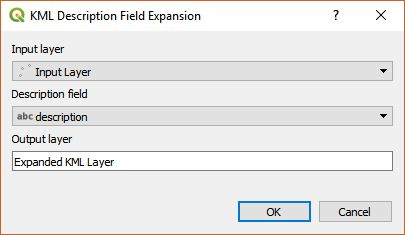
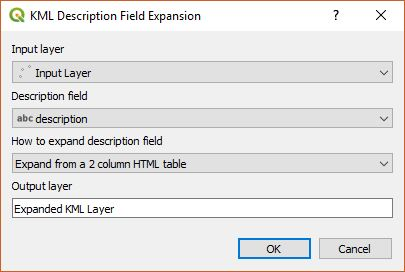
updated to expand tag=value attributes

Changed region(s): [[0.0296, 0.1489, 0.9778, 0.8043], [0.0, 0.834, 1.0, 1.0], [0.0, 0.0, 0.9778, 0.1191]]

diff --git a/htmlExpansionDialog.py b/htmlExpansionDialog.py
@@ -24,6 +24,7 @@ from qgis.core import (QgsProcessing,
     QgsProcessingParameterFeatureSource,
     QgsProcessingParameterField,
     QgsProcessingParameterString,
+    QgsProcessingParameterEnum,
     QgsProcessingParameterFeatureSink)
 
 from html.parser import HTMLParser
@@ -39,45 +40,51 @@ def tr(string):
 
 class HTMLExpansionProcess(QObject):
     addFeature = pyqtSignal(QgsFeature)
-    def __init__(self, source, descField):
+    def __init__(self, source, descField, type):
         QObject.__init__(self)
         self.source = source
         self.descField = descField
+        self.type = type
         self.htmlparser = MyHTMLParser()
         self.selected = []
         
     def autoGenerateFileds(self):
-        '''Look through the description field for each vector entry
+        """Look through the description field for each vector entry
         for any HTMLtables that have
         name/value pairs and collect all the names. These will become
-        the desired output expanded name fields.'''
+        the desired output expanded name fields."""
         iterator = self.source.getFeatures()
         self.htmlparser.setMode(0)
-        for feature in iterator:
-            desc = "{}".format(feature[self.descField])
-            self.htmlparser.feed(desc)
-            self.htmlparser.close()
+        if self.type == 0:
+            for feature in iterator:
+                desc = "{}".format(feature[self.descField])
+                self.htmlparser.feed(desc)
+                self.htmlparser.close()
+        else:
+            for feature in iterator:
+                desc = "{}".format(feature[self.descField])
+                self.htmlparser.processHtmlTagValue(desc)
         self.selected = self.htmlparser.fieldList()
 
     def setDesiredFields(self, selected):
-        '''Set the desired expanded field names'''
+        """Set the desired expanded field names"""
         self.selected = list(selected)
         
     def desiredFields(self):
-        '''Return a list of all the desired expanded output names'''
+        """Return a list of all the desired expanded output names"""
         return self.selected
         
     def fields(self):
-        '''Return a dictionary of all the unique names and a count as to
+        """Return a dictionary of all the unique names and a count as to
         the number of times it had content.
-        '''
+        """
         return self.htmlparser.fields()
         
     def uniqueDesiredNames(self, names):
-        '''Make sure field names are not repeated. This looks at the 
+        """Make sure field names are not repeated. This looks at the 
         source names and the desired field names to make sure they are not the
         same. If they are a number is appended to make it unique.
-        '''
+        """
         nameSet = set(names)
         newnames = [] # These are the unique selected field names
         for name in self.selected:
@@ -97,18 +104,21 @@ class HTMLExpansionProcess(QObject):
         return(newnames)
         
     def processSource(self):
-        '''Iterate through each record and look for html table entries in the description
+        """Iterate through each record and look for html table entries in the description
         filed and see if there are any name/value pairs that match the desired expanded
         ouput field names. 
-        '''
+        """
         self.htmlparser.setMode(1)
         iterator = self.source.getFeatures()
         tableFields = self.htmlparser.fields()
         for feature in iterator:
             desc = "{}".format(feature[self.descField])
             self.htmlparser.clearData()
-            self.htmlparser.feed(desc)
-            self.htmlparser.close()
+            if self.type == 0:
+                self.htmlparser.feed(desc)
+                self.htmlparser.close()
+            else:
+                self.htmlparser.processHtmlTagValue(desc)
             featureout = QgsFeature()
             featureout.setGeometry(feature.geometry())
             attr = []
@@ -130,6 +140,7 @@ class HTMLExpansionAlgorithm(QgsProcessingAlgorithm):
     PrmDescriptionField = 'DescriptionField'
     PrmExpansionTags = 'ExpansionTags'
     PrmOutputLayer = 'OutputLayer'
+    PrmExpansionType = 'ExpansionType'
     
     def initAlgorithm(self, config):
         self.addParameter(
@@ -154,6 +165,15 @@ class HTMLExpansionAlgorithm(QgsProcessingAlgorithm):
                 optional=True)
         )
         self.addParameter(
+            QgsProcessingParameterEnum(
+                self.PrmExpansionType,
+                tr('How to expand the description field'),
+                options=[tr('Expand from a 2 column HTML table'),
+                    tr('Expand from "tag = value" pairs')],
+                defaultValue=0,
+                optional=False)
+        )
+        self.addParameter(
             QgsProcessingParameterFeatureSink(
                 self.PrmOutputLayer,
                 tr('Output layer'))
@@ -163,6 +183,7 @@ class HTMLExpansionAlgorithm(QgsProcessingAlgorithm):
         source = self.parameterAsSource(parameters, self.PrmInputLayer, context)
         field = self.parameterAsString(parameters, self.PrmDescriptionField, context)
         tags = self.parameterAsString(parameters, self.PrmExpansionTags, context).strip()
+        type = self.parameterAsInt(parameters, self.PrmExpansionType, context)
         feedback.pushInfo(tags)
         if not field:
             msg = tr('Must have a valid description field')
@@ -170,7 +191,7 @@ class HTMLExpansionAlgorithm(QgsProcessingAlgorithm):
             raise QgsProcessingException(msg)
         
         # Set up the HTML expansion processor
-        self.htmlProcessor = HTMLExpansionProcess(source, field)
+        self.htmlProcessor = HTMLExpansionProcess(source, field, type)
         self.htmlProcessor.addFeature.connect(self.addFeature)
         # Have it generate a list of all possible expansion field names
         if self.PrmExpansionTags in parameters and tags != '':
@@ -205,7 +226,7 @@ class HTMLExpansionAlgorithm(QgsProcessingAlgorithm):
         return QIcon(os.path.dirname(__file__) + '/html.png')
     
     def displayName(self):
-        return tr('Expand HTML description table')
+        return tr('Expand HTML description field')
     
     def group(self):
         return tr('Vector conversion')
@@ -224,18 +245,21 @@ class HTMLExpansionDialog(QDialog, FORM_CLASS):
         self.iface = iface
         self.inputLayerComboBox.setFilters(QgsMapLayerProxyModel.VectorLayer)
         self.inputLayerComboBox.layerChanged.connect(self.layerChanged)
+        self.typeComboBox.addItems([tr('Expand from a 2 column HTML table'),
+            tr('Expand from "tag = value" pairs')])
         
     def showEvent(self, event):
-        '''The dialog is being shown. We need to initialize it.'''
+        """The dialog is being shown. We need to initialize it."""
         super(HTMLExpansionDialog, self).showEvent(event)
         self.layerChanged()
     
     def accept(self):
-        '''Called when the OK button has been pressed.'''
+        """Called when the OK button has been pressed."""
         layer = self.inputLayerComboBox.currentLayer()
         if not layer:
             return
         newlayername = self.outputLayerLineEdit.text().strip()
+        type = self.typeComboBox.currentIndex()
             
         # Find all the possible fields in the description area
         field = self.descriptionComboBox.currentField()
@@ -245,7 +269,7 @@ class HTMLExpansionDialog(QDialog, FORM_CLASS):
             return
         
         # Set up the HTML expansion processor
-        self.htmlProcessor = HTMLExpansionProcess(layer, field)
+        self.htmlProcessor = HTMLExpansionProcess(layer, field, type)
         self.htmlProcessor.addFeature.connect(self.addFeature)
         # Have it generate a list of all possible expansion field names
         self.htmlProcessor.autoGenerateFileds()
@@ -318,6 +342,31 @@ class MyHTMLParser(HTMLParser):
         
     def fields(self):
         return self.tableFields
+        
+    def processHtmlTagValue(self, desc):
+        lines = re.split(r'<br.*?>|<p.*?>|<td.*?>|<th.*?>', desc, flags=re.IGNORECASE)
+        p = re.compile(r'<.*?>')
+        s = re.compile(r'\s+')
+        for line in lines:
+            line = p.sub('', line) # remove HTML formatting
+            line = s.sub(' ', line) # remove extra white space
+            line = line.strip()
+            m = re.match("(.+?)\s*=\s*(.+)", line)
+            if m: # We have a tag=value match
+                tag = m[1].strip()
+                value = m[2].strip()
+                if self.mode == 0:
+                    if tag in self.tableFields:
+                        if value != '':
+                            self.tableFields[tag] += 1
+                    else:
+                        if value != '':
+                            self.tableFields[tag] = 1
+                        else:
+                            self.tableFields[tag] = 0
+                else:
+                    self.tableFields[tag] = value
+                
         
     def handle_starttag(self, tag, attrs):
         tag = tag.lower()

diff --git a/kmltools.py b/kmltools.py
@@ -44,7 +44,7 @@ class KMLTools(object):
         self.iface.addPluginToVectorMenu("KML Tools", self.kmlAction)
         # Expansion of HTML description field
         icon = QIcon(os.path.dirname(__file__) + "/html.png")
-        self.htmlDescAction = QAction(icon, "Expand HTML description table", self.iface.mainWindow())
+        self.htmlDescAction = QAction(icon, "Expand HTML description field", self.iface.mainWindow())
         self.htmlDescAction.triggered.connect(self.htmlDescDialog)
         self.htmlDescAction.setCheckable(False)
         self.iface.addToolBarIcon(self.htmlDescAction)

diff --git a/readme.md b/readme.md
@@ -8,27 +8,35 @@ The native QGIS importer creates separate layers for each folder within a KML/KM
 
 <div style="text-align:center"><img src="doc/import.jpg" alt="Import KML/KMZ"></div>
 
-<img src="html.png" alt="HTML description expansion"> ***Expand HTML description table*** - This has a very narrow purpose. Before this can be run, the KML needs to be imported into QGIS with ***Import KML/KMZ***. If the KML has a description entry that contains an HTML table with two columns were the first column represents a table or field name and the second column its value, then this function will parse these fields and add them to a new attribute table field. This can either be run from the menu, tool bar, or *Processing Toolbox*; however, running it from the menu or tool bar provides user interaction during the conversion to select which fields they want to expand. During expansion some of the expansion names may already exist in the table. If that is the case then an '_' followed by a number is appended to then end.
+<img src="html.png" alt="HTML description expansion"> ***Expand HTML description field*** - This attempts to expand HTML tag/value pairs into separate fields. Before this can be run, the KML needs to be imported into QGIS with ***Import KML/KMZ***. Next select from ***How to expand the description field*** option one of the following:
+
+* ***Expand from a 2 column HTML table*** - If the KML has a description entry that contains an HTML table with two columns were the first column represents a table or field name and the second column its value, then this option will parse these fields and add them to a new attribute table field.  This is an example of data that it expands.
+
+```
+    <table>
+        <tr><td>City</td><td>Provo</td></tr>
+        <tr><td>State</td><td>Utah</td></tr>
+    </table>
+```
+* ***Expand from "tag = value" pairs*** - If the KML has a description entry that contains "tag = value" entries separated by new paragraphs, line breaks, or entries in a single table column, then this option will parse these fields and add them to a new attribute table field. This is an example of data that it expands.
+
+```
+    <b>City<b/> = Provo<br/>
+    <b>State<b/> = Utah<br/>
+```
+
+This can either be run from the menu, tool bar, or *Processing Toolbox*; however, running it from the menu or tool bar provides user interaction during the conversion to select which fields they want to expand. During expansion some of the expansion names may already exist in the table. If that is the case then an '_' followed by a number is appended to the end.
 
 <div style="text-align:center"><img src="doc/html.jpg" alt="HTML Expander"></div>
 
-Select the input layer and the field that has an HTML table of tag/value rows. Press ***OK*** and it will look through all records and find all possible tag values. If it finds tags, then it will popup a menu for you to select which tags you want expanded into table entries like this.
+Select the input layer and the field that has an HTML table of tag/value rows. Press ***OK*** and it will look through all records and find all possible tag values. If it finds tags, then it will pop up a menu for you to select which tags you want expanded into table entries like this.
 
 <div style="text-align:center"><img src="doc/html2.jpg" alt="HTML Expander"></div>
-
-This is the type of data that it currently expands. The two tags will become **City** and **State**.
-
-<code><pre>
-    &lt;table&gt;
-        &lt;tr&gt;&lt;td&gt;City&lt;/td&gt;&lt;td&gt;Provo&lt;/td&gt;&lt;/tr&gt;
-        &lt;tr&gt;&lt;td&gt;State&lt;/td&gt;&lt;td&gt;Utah&lt;/td&gt;&lt;/tr&gt;
-    &lt;/table&gt;
-</pre></code>
 
 The ***Processing Toolbox*** version of ***Expand HTML description table*** operates a little differently because processing routines cannot be interactive. In this case it will expand all possible tags that are found. Optionally, you can include a list of name tags you want expanded if you know them ahead of time. This is the Processing expansion dialog box.
 
 <div style="text-align:center"><img src="doc/html3.jpg" alt="HTML Expander"></div>
 
-Because there is no standard way of including additional information in the KML description entry, it is difficult to come up with a way to expand all cases. Right now this just works with HTML tables, but please let us know if there are other description formats that you would like us to tackle.
+Because there is no standard way of including additional information in the KML description entry, it is difficult to come up with a way to expand all cases. Right now this just works with two column HTML tables and ***tag=value*** pairs, but please let us know if there are other description formats that you would like us to tackle.
 
 This plugin may not be for everyone as it does not implement the entire KML specification, but if you find that it is missing some aspect of KML, let us know and perhaps we can add it.
